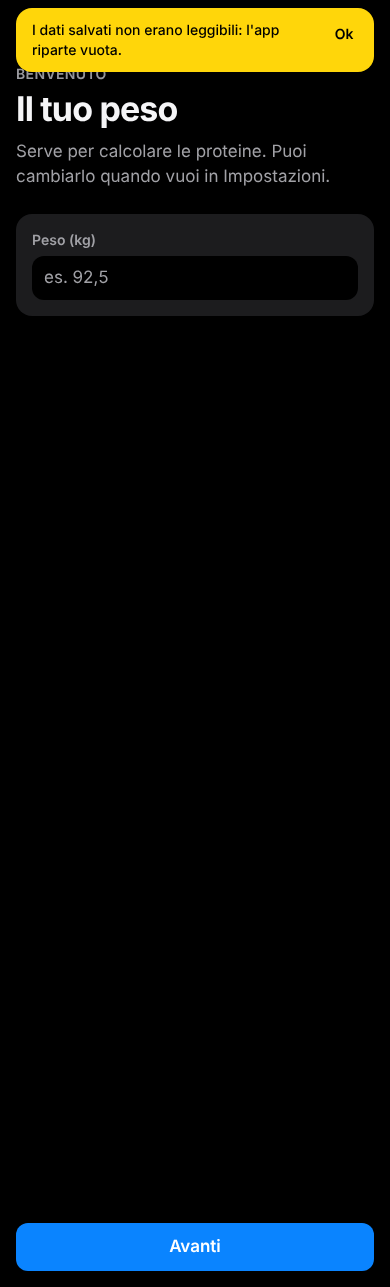
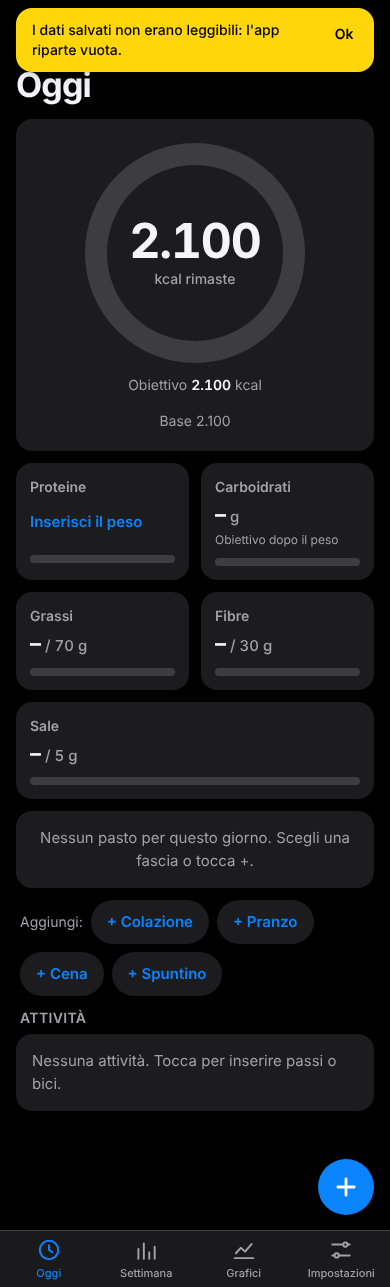
T4.5 primo avvio: dopo l'avviso dei dati illeggibili (correzione dopo la revisione)
Claude-Session: https://claude.ai/code/session_015vJA156enAwwDaa2Dedvun

diff --git a/src/app/components/onboarding.tsx b/src/app/components/onboarding.tsx
@@ -1,7 +1,7 @@
 "use client";
 
 import { useEffect, useState } from "react";
-import { useDataStore } from "../data-provider";
+import { useDataProblem, useDataStore } from "../data-provider";
 import { initialOnboardingValues, needsOnboarding, onboardingPatch, SKIP_PATCH } from "../lib/onboarding";
 import type { OnboardingValues } from "../lib/onboarding";
 import type { SettingsFormErrors } from "../lib/settings-form";
@@ -16,6 +16,7 @@ const STEPS = [
 /** Primo avvio guidato: tre schermate brevi per chi non ha ancora nessuna impostazione. Compare sopra l'app e si può saltare. */
 export function Onboarding() {
   const store = useDataStore();
+  const { problem } = useDataProblem();
   // undefined = non ancora letto, true = da mostrare, false = non serve
   const [show, setShow] = useState<boolean | undefined>(undefined);
   const [step, setStep] = useState(0);
@@ -35,7 +36,8 @@ export function Onboarding() {
     };
   }, [store]);
 
-  if (!store || !show) return null;
+  // Con l'avviso "dati illeggibili" in cima si aspetta che venga chiuso: il banner coprirebbe l'intestazione del primo avvio.
+  if (!store || !show || problem?.kind === "avviso") return null;
 
   const finish = async (patch: Parameters<typeof store.saveSettings>[0]) => {
     setBusy(true);

diff --git a/docs/DIARIO.md b/docs/DIARIO.md
@@ -106,7 +106,7 @@ Una riga per task chiuso.
 - Se tutti i piatti vengono tolti la proposta lo dice e resta solo Annulla.
 - Piatto a mano con stima (T4.3): "facoltativi" è inteso così: con l'AI attiva l'asterisco sulle kcal sparisce e i numeri si possono ottenere dalla stima, ma per salvare le kcal ci vogliono comunque (scritte o stimate): con il campo vuoto l'errore dice «Inserisci le kcal o tocca "Stima con AI"». Se il modello divide il piatto in più piatti, i numeri si sommano; la quantità scritta dall'utente non viene toccata (l'eventuale quantità ipotizzata sta nella nota). Il pulsante compare solo se il campo kcal è vuoto; per stimare di nuovo basta svuotarlo.
 - Preferiti (T4.4): i piatti preferiti stanno nella tabella `favorites` esistente (con la nuova colonna `quantity`; la colonna `slot` resta vuota); i pasti preferiti in una tabella nuova `favorite_meals` con i piatti in un campo solo (JSON). Salvare di nuovo un piatto con lo stesso nome e la stessa quantità, o un pasto con lo stesso nome, aggiorna il preferito invece di duplicarlo (senza maiuscole né accenti). "Salva nei preferiti" salva il piatto com'è già salvato, non le modifiche non ancora salvate nel modulo. I preferiti non conservano il segno "libero" né la data; aggiunti al giorno diventano piatti normali che seguono lo stato libero del pasto in cui entrano. La fascia dove si aggiunge si sceglie nella schermata Preferiti (parte dalla fascia del pasto da cui si è aperto il + o, altrimenti, da Pranzo). "Aggiungi piatto" dentro un pasto apre il piatto a mano: i preferiti si raggiungono dal + generale. Un archivio del browser con soli preferiti viene proposto per l'importazione. Per le esportazioni CSV i preferiti non sono inclusi (non richiesti).
-- Primo avvio (T4.5): "senza impostazioni salvate" = nessun valore in `settings` e nessun segno `onboardingDone`; saltando o finendo si salva il segno (colonna nuova `onboarding_done`), così non si riaccende nemmeno dopo "Ripristina valori predefiniti". Chi ha già anche una sola impostazione non lo vede mai (Mauro compreso). Le kcal base uguali al predefinito non si salvano (campo vuoto = predefinito); i pesi vuoti restano vuoti. Alla fine la pagina si ricarica su Oggi perché tutte le schermate leggano le impostazioni nuove. Con Supabase, un account nuovo con dati nel browser vede prima il primo avvio e poi la proposta di importazione (le impostazioni scritte restano, l'importazione completa solo quelle mancanti). Se i dati salvati sono illeggibili l'app riparte vuota e il primo avvio compare sotto l'avviso.
+- Primo avvio (T4.5): "senza impostazioni salvate" = nessun valore in `settings` e nessun segno `onboardingDone`; saltando o finendo si salva il segno (colonna nuova `onboarding_done`), così non si riaccende nemmeno dopo "Ripristina valori predefiniti". Chi ha già anche una sola impostazione non lo vede mai (Mauro compreso). Le kcal base uguali al predefinito non si salvano (campo vuoto = predefinito); i pesi vuoti restano vuoti. Alla fine la pagina si ricarica su Oggi perché tutte le schermate leggano le impostazioni nuove. Con Supabase, un account nuovo con dati nel browser vede prima il primo avvio e poi la proposta di importazione (le impostazioni scritte restano, l'importazione completa solo quelle mancanti). Se i dati salvati sono illeggibili l'app riparte vuota e il primo avvio compare solo dopo aver chiuso l'avviso (il banner giallo ne coprirebbe l'intestazione). Le kcal base partono come "2100" (senza punto): nei campi il punto è letto come virgola decimale, quindi "2.100" varrebbe 2,1; il formato con il punto compare solo come suggerimento dei campi vuoti in Impostazioni.
 - Collegamenti (T4.5): per ora solo lo stato dell'AI; i token dei Comandi rapidi arrivano con la fase 5. Il testo rimanda a `docs/COLLEGA-VERTEX.md` (scritto in T4.6).
 - Screenshot: gli scenari che non riguardano il primo avvio partono con il segno "avvio fatto" già presente (`primoAvvio: true` nello scenario lo lascia comparire).
 
